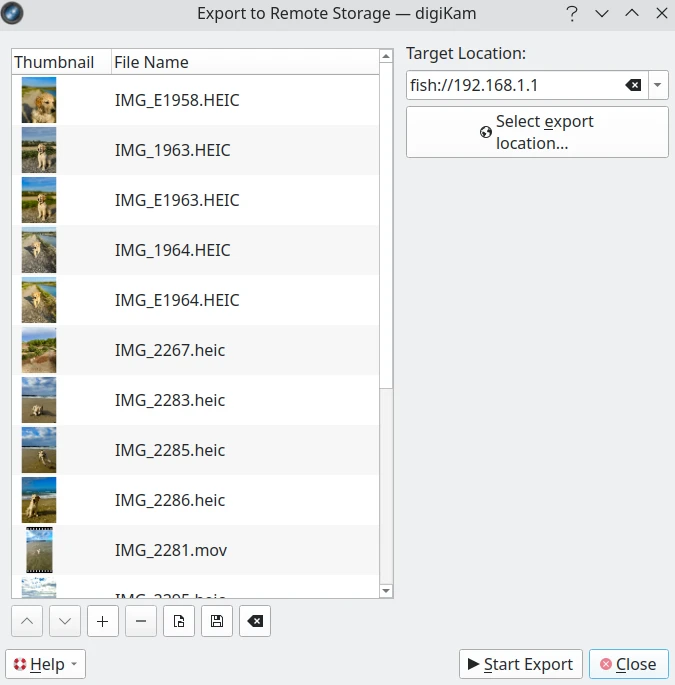
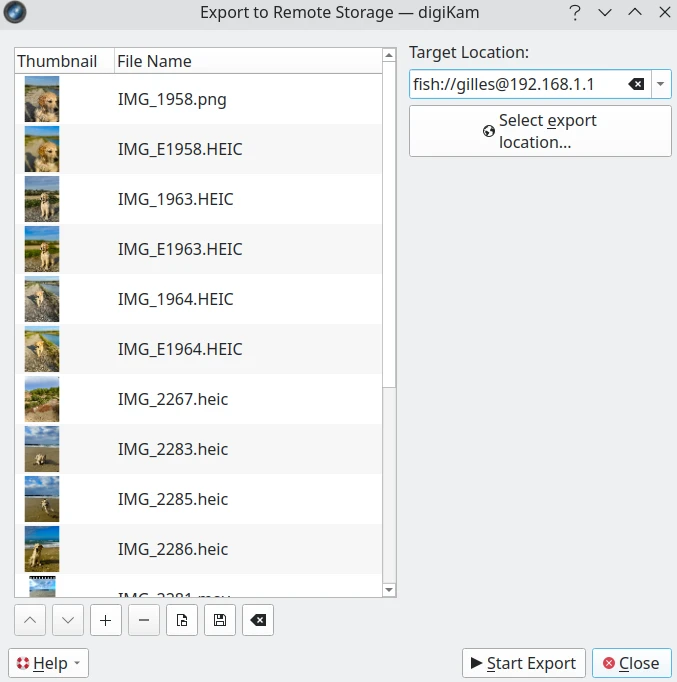
update to last GUI changes from import/export from/to remote devices

diff --git a/import_tools/remote_import.rst b/import_tools/remote_import.rst
@@ -29,10 +29,12 @@ To choose files to import, press **Select Source Location** on the left side of 
 
     The URLs Selector Dialog Under Linux Choosing Files from a NAS Sharing Contents through Samba File System.
 
-In this dialog, you can use protocols such as **fish** (ssh), **ftp**, **smb**, etc, to connect to the remote computer. For example,
+In this dialog, you can use protocols such as **fish://** (ssh), **ftp://**, **sftp://**, **smb://**, **network://**, **webdav://**etc, to connect to the remote computer. For example,
 
     - **fish://user_name@remote_computer**: connect to the *remote_computer* with *user_name* using SSH protocol (Secure SHell).
     - **ftp://user_name@remote_computer**: connect to the *remote_computer* with *user_name* using FTP protocol (File Transfer Protocol).
+
+Instead of using the **Source Location** url field, you can use the native desktop url selector by pressing the **Select Source Location** button. A dialog will appear where you can see and select remote devices in the network section of the dialog:
 
 .. note::
 

diff --git a/export_tools/remote_export.rst b/export_tools/remote_export.rst
@@ -23,7 +23,7 @@ This tool allows you to upload files from your collections to a remote computer 
 
     The Export to Remote Computer Dialog
 
-Protocols such as **fish** (ssh), **ftp**, **smb**, etc, can be used to connect to the **Target Location** url. For example:
+In this dialog, you can use protocols such as **fish://** (ssh), **ftp://**, **sftp://**, **smb://**, **network://**, **webdav://**etc, to connect to the remote computer. For example,
 
     - **fish://user_name@remote_computer**: connect to the *remote_computer* with *user_name* using SSH protocol (Secure SHell).
     - **ftp://user_name@remote_computer**: connect to the *remote_computer* with *user_name* using FTP protocol (File Transfer Protocol).
